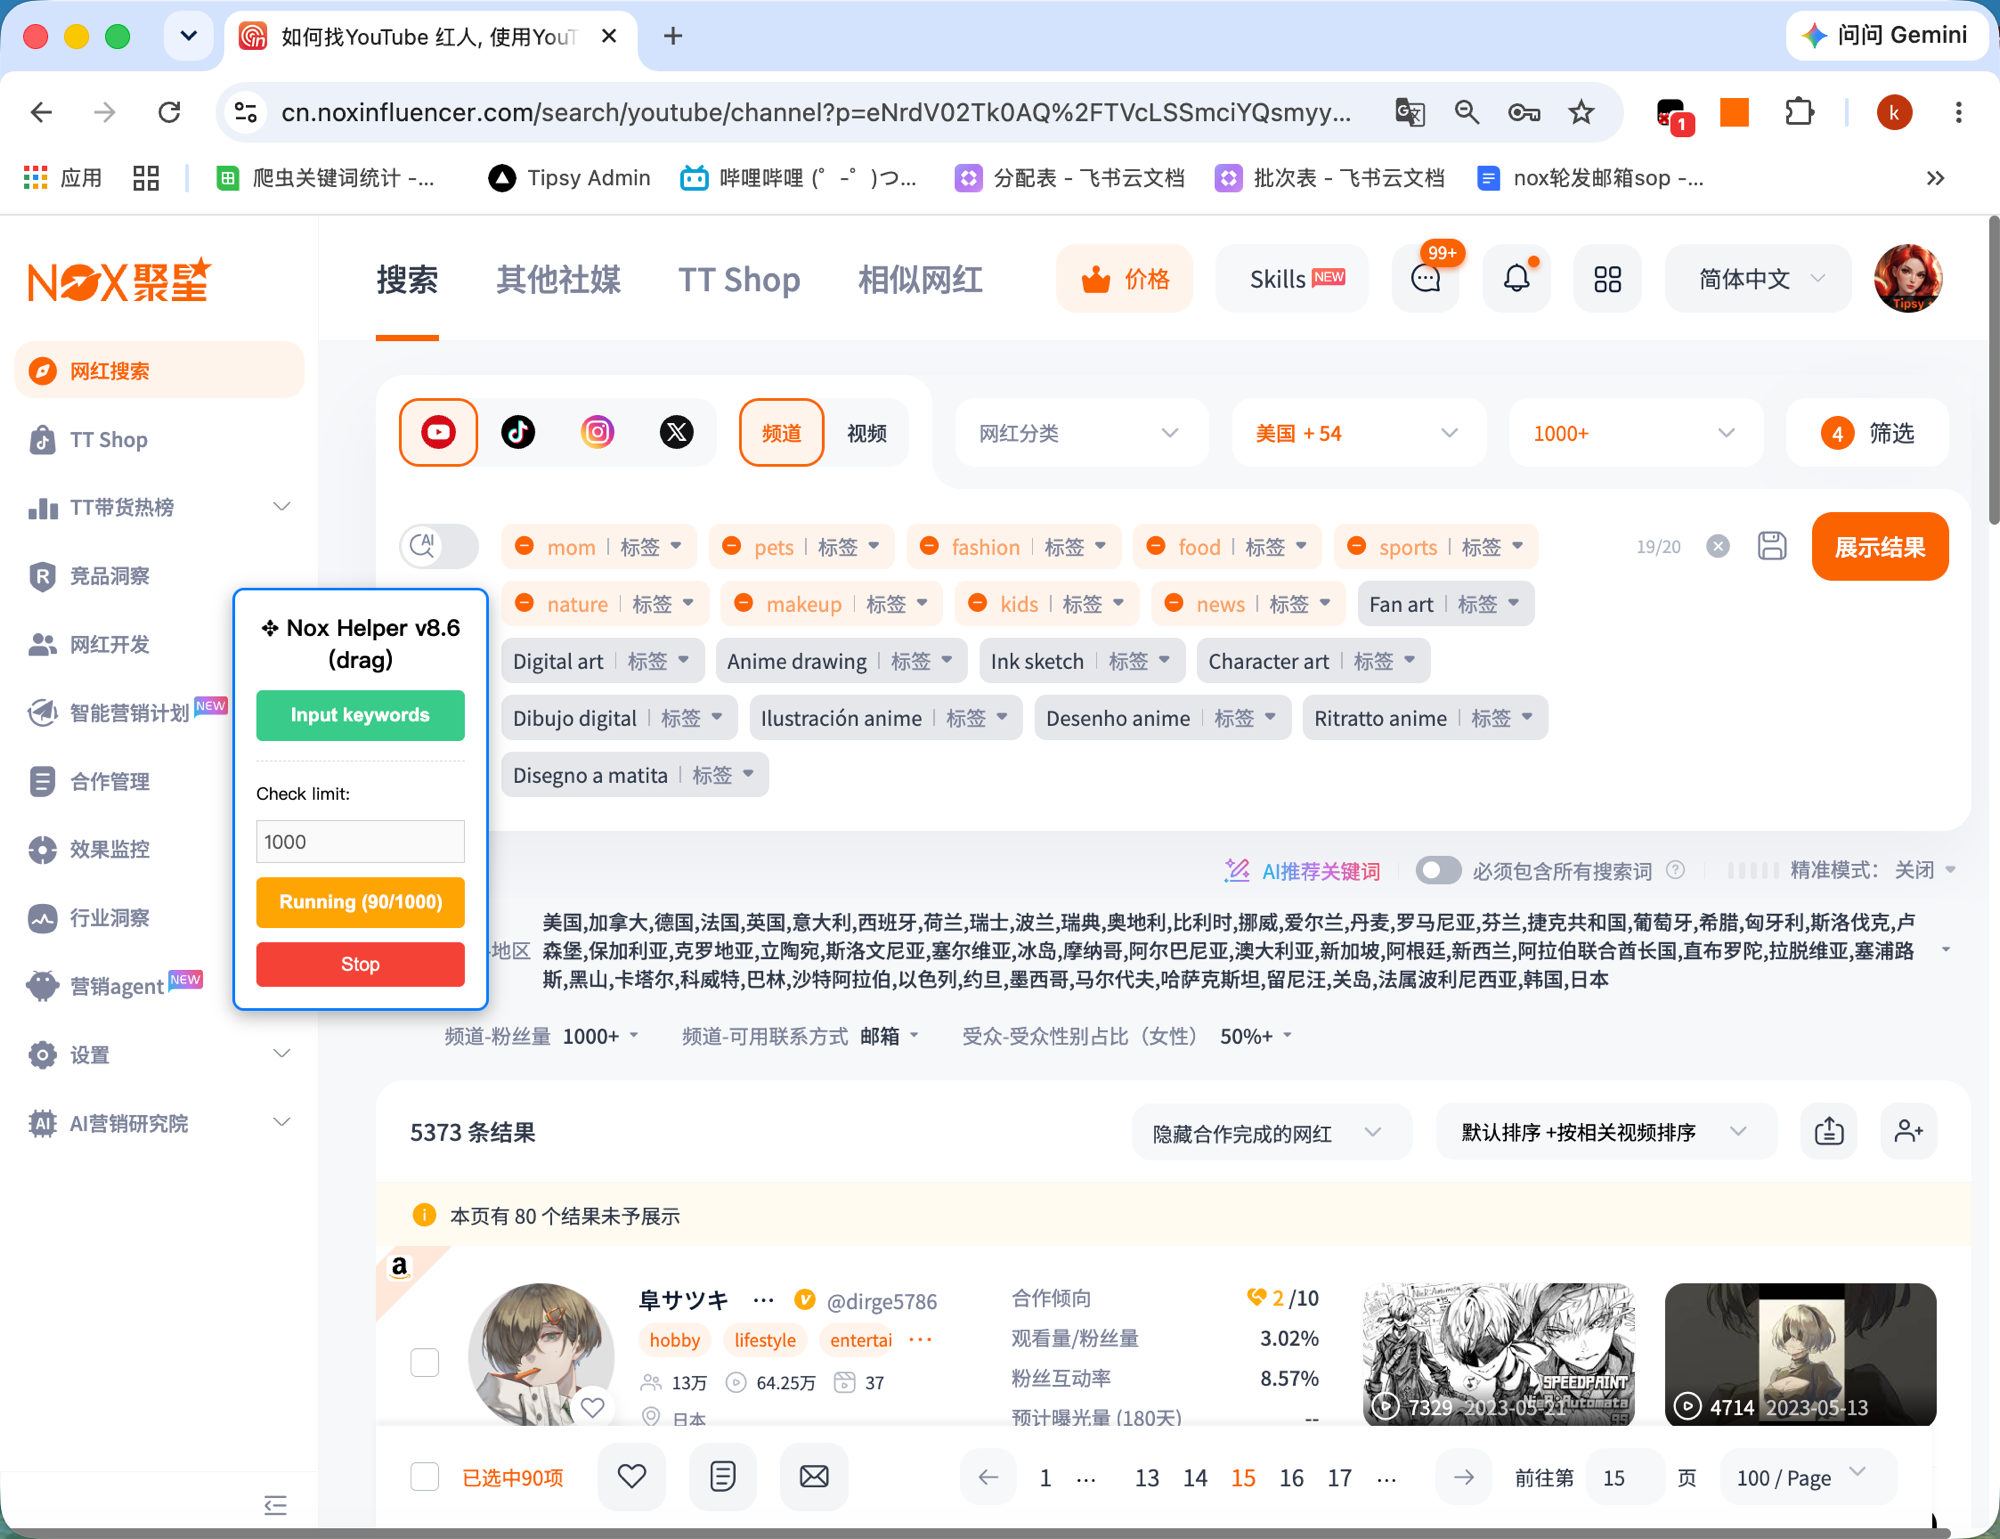
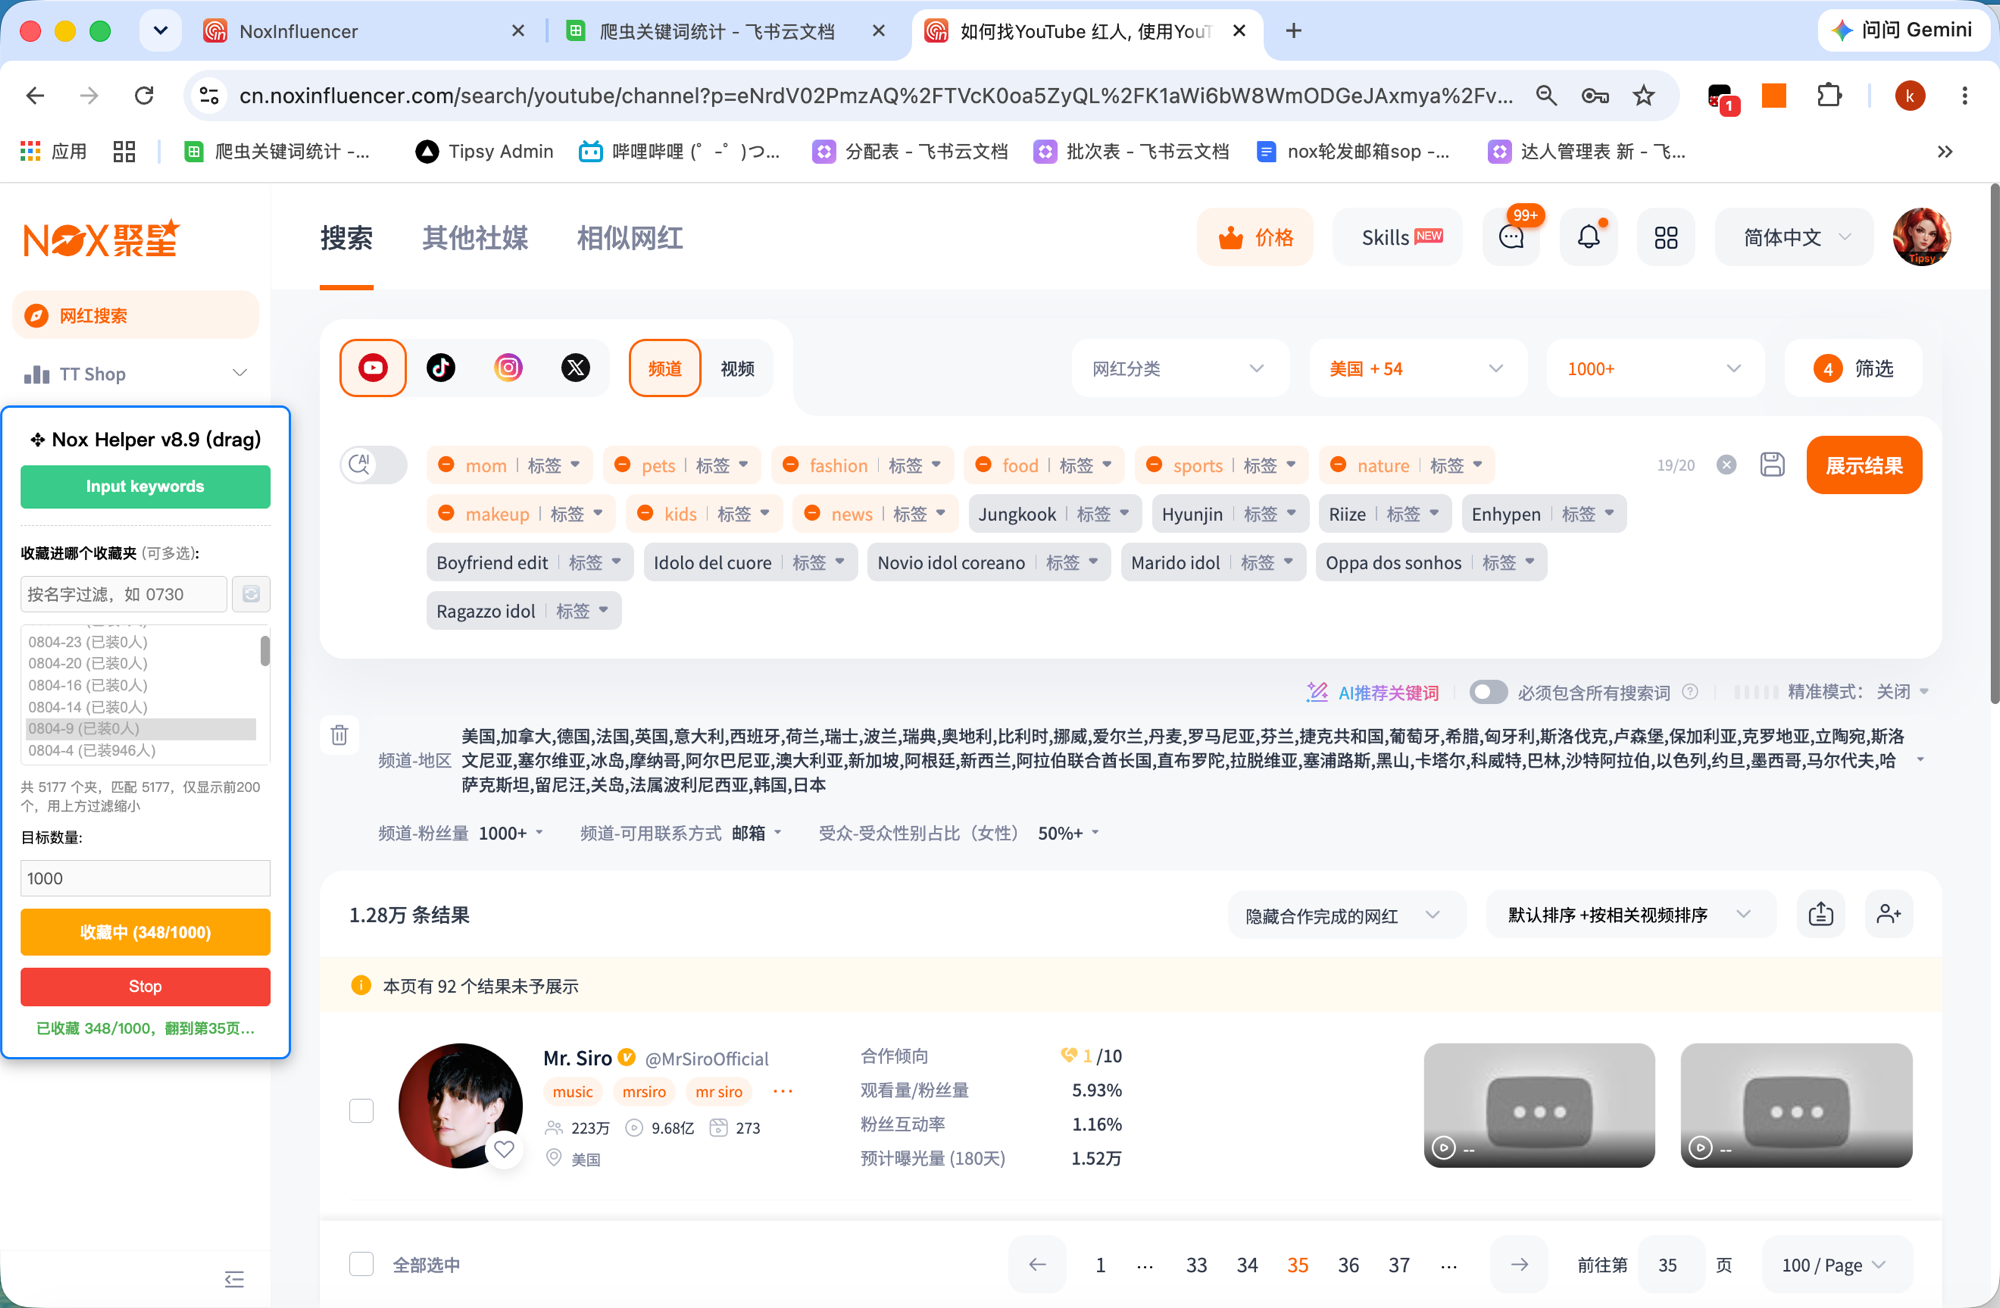
docs: 更新搜索面板截图至 v8.9 并对齐功能B文案
- 替换 search-panel.png 为 v8.9 新版界面
- 功能B描述从英文 Running/Check limit 改为当前界面的中文收藏中/目标数量
- 补充收藏夹多选、进度提示等说明

diff --git a/README.md b/README.md
@@ -49,7 +49,7 @@ https://raw.githubusercontent.com/kevendeng/nox-/main/nox-helper.user.js
 
 ### 1. 网红搜索 / Lookalike 页面
 
-进入搜索页面后，面板右下角会出现两个按钮：**Input keywords** 和 **Running**（自动选）。
+进入搜索页面后，左侧会出现可拖动的 **Nox Helper** 面板，包含关键词填入和自动收藏两块功能。
 
 #### 功能 A：关键词自动填入
 
@@ -61,13 +61,13 @@ https://raw.githubusercontent.com/kevendeng/nox-/main/nox-helper.user.js
 - **清空灰色搜索词**、**保留橙色排除词**，然后逐行填入你的新关键词
 ⚠ **已知 Bug**：偶现网卡或网页加载慢时，脚本可能会把**第一个排除词改成搜索词**，导致搜索结果不准。
 
-#### 功能 B：自动选（批量勾选）
+#### 功能 B：自动收藏（批量勾选 + 翻页）
 
-点 **Running** 弹出控制面板，可设置”Check limit”（目标数量，默认 1000），然后脚本会**自动全选、自动翻页**直到达到目标数量。
+在面板里选好目标收藏夹（支持多选，可按名字过滤），设置 **目标数量**（默认 1000），点 **收藏中** 开始，脚本会**自动全选、自动翻页**直到达到目标数量。
 
 ![操作面板](./images/search-panel.png)
 
-- 面板显示 `Running (n/limit)` 表示已勾选数量
+- 按钮显示 `收藏中 (n/目标数量)` 表示已勾选数量，下方绿字会提示当前进度和翻到第几页
 - 点 **Stop** 随时停止
 
 ⚠ **性能提示**：多个脚本同时运行（如多个浏览器标签页都开启自动选）会**大幅占用内存，容易导致浏览器卡死甚至崩溃**。建议同时只运行 1～2 个脚本；如果需要批量操作，推荐逐个进行。
